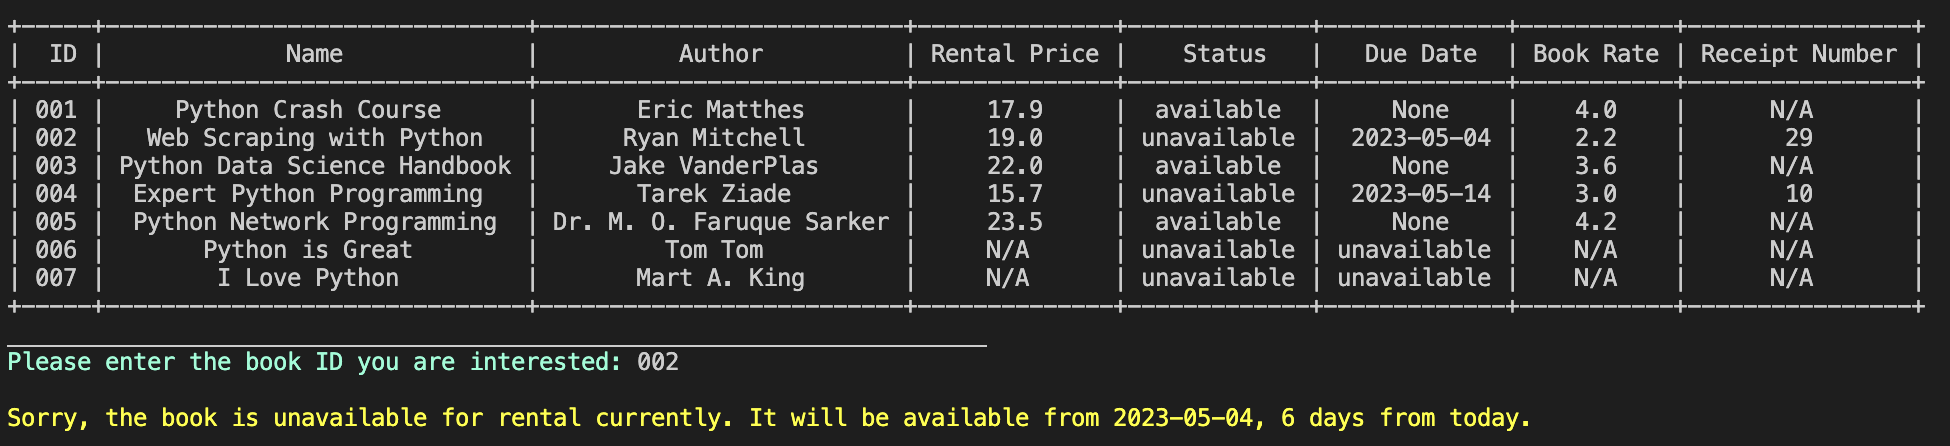
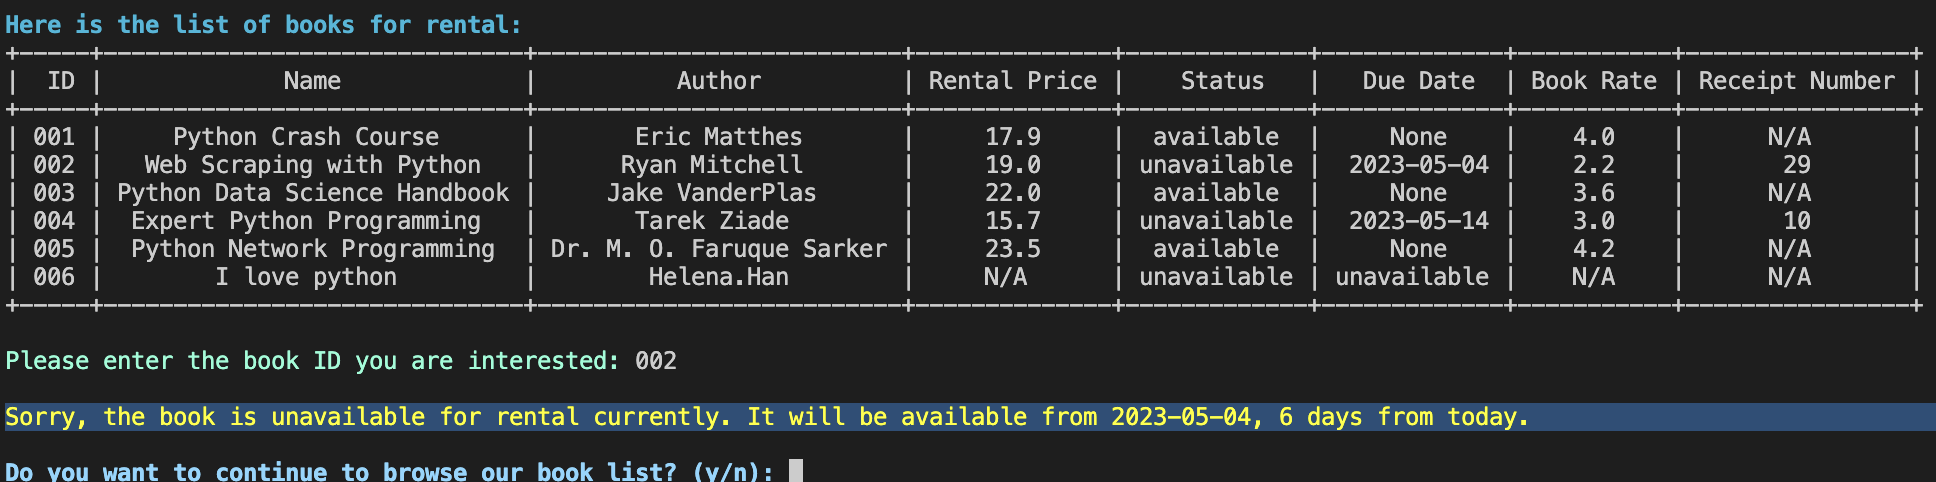
features update

Changed region(s): [[0.0, 0.0291, 0.9917, 0.6413], [0.0, 0.7287, 1.0, 1.0], [0.0, 0.6704, 0.9917, 0.6996]]

diff --git a/docs/readme.md b/docs/readme.md
@@ -14,7 +14,7 @@ The Online Book Rental Store application, as the name suggests, is a convenient 
 
 
 ### Rent books:
-####Book list Table:
+#### Book list Table:
 This feature allows users to borrow a book online, it imports the 'PrettyTable' module to create a well-organized and easily readable table to present the book information stored in a CSV document to customers (a try-except statement has been used here to check if a CSV file exists). The table is constructed using the PrettyTable function, which defines the column headers. Next, the program iterates through a list of books, appending the data of each book as a row to the table. Finally, the program prints out the entire table containing all book details, making it simple for customers to comprehend the availability of each book. 
 ![Book list Table](./book%20list%20table.png)
 
@@ -25,7 +25,7 @@ When customers viewed the book list, the select book function prompts them to en
 If the book is not available, the program will use the imported datetime module to inform the customer of the number of days until the book becomes available again. This is done by subtracting the current date from the book's due date.
 ![time checker](./time%20checker.png)
 
-The program then updates the book list accordingly. Additionally, it uses a while loop to repeatedly ask the customer if they want to view the latest book information when borrowing, returning, or rating a book. If the customer agrees, the program displays the updated book information using the table.
+The program then updates the book list accordingly. Additionally, it uses a while loop to repeatedly ask the customer if they want to view the latest book information when borrowing, returning, or adding a book. If the customer agrees, the program displays the updated book information using the table.
 
 
 ### Return Books:
@@ -42,7 +42,7 @@ Overall, this feature provides a straightforward and user-friendly way for users
 ![return book feature](return%20book.png)
 
 ### Add books:
-This functionality is relatively straightforward. It allows users to add a new book to the online bookstore by entering its name and author. The 'add_book' function accepts a list of books from a CSV file as input. It then creates a new dictionary for the book based on the user's input for the name and author, which is validated using regular expressions and prompt statements. The new book's ID is added sequentially based on the current maximum value stored in the dictionary. The book's status and due date are marked as 'unavailable', which is used to determine the availability of the book when the user selects a book combined with the select book function. Other details, such as rental price, book rating, and receipt number, are not processed at this stage and are instead set to 'N/A', which can be updated by the admin later. Finally, the program adds the new book information to the 'books' list and returns the updated list.
+This feature is relatively straightforward. It allows users to add a new book to the online bookstore by entering its name and author. The "add_book" function accepts a list of books from the CSV file as input. It then creates a new dictionary for the book based on the user's input for the name and author, which is validated using regular expressions and prompt statements. The new book's ID is added sequentially based on the current maximum value stored in the dictionary. The book's status and due date are marked as 'unavailable', which is used to determine the availability of the book when the user selects a book combined with the select book function. Other details, such as rental price, book rating, and receipt number, are not processed at this stage and are instead set to "N/A", which can be updated by the admin later. Finally, the program adds the new book information to the "books" list and returns the updated list.
 
 ![add new book](Add%20new%20book.png)
 
